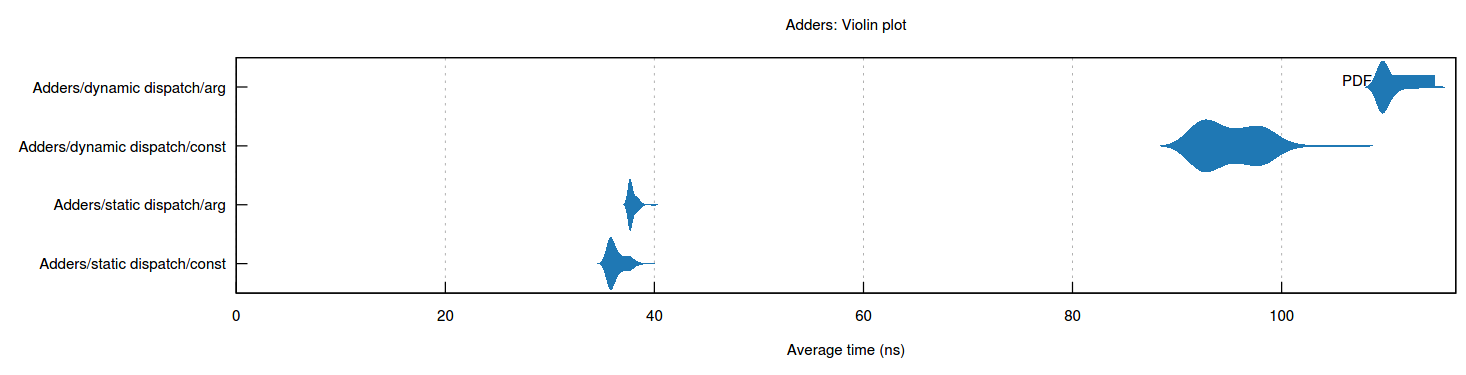
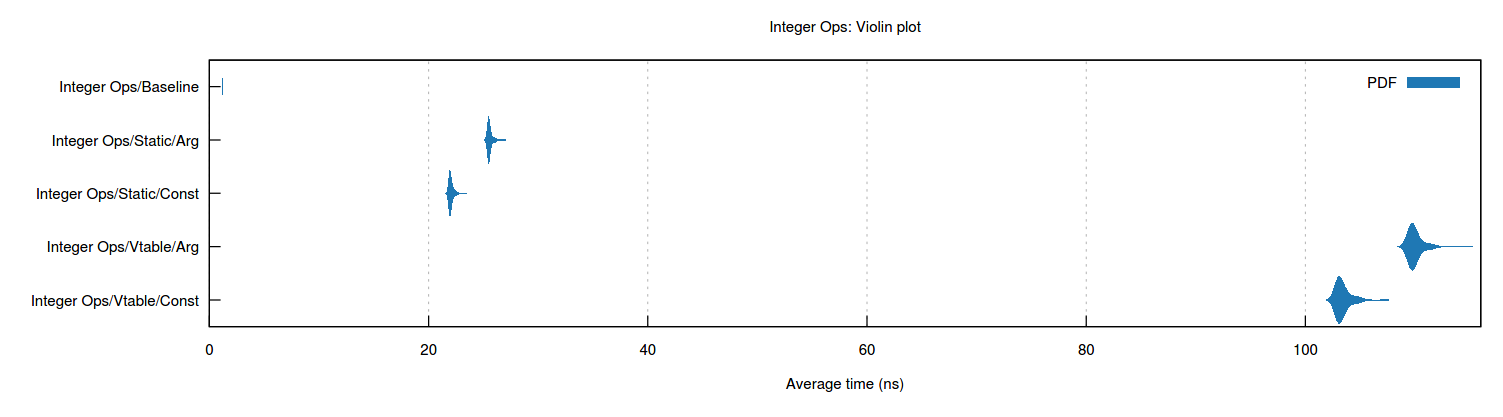
Add baseline benchmark and rename main benchmarks suite

diff --git a/benches/integer_ops.rs b/benches/integer_ops.rs
@@ -1,37 +1,43 @@
 use criterion::{black_box, criterion_group, criterion_main, Criterion};
-use zero_v::{compose, compose_nodes, Composite, NestLevel, NextNode, Node};
+use zero_v::{compose, compose_nodes, Composite, NextNode, Node};
 
+// The trait we want members of our collection to implement
 trait IntOp {
     fn execute(&self, input: usize) -> usize;
 }
 
+// Execute the trait's function on the object at a certain nesting level
 trait IntOpAtLevel {
     fn execute_at_level(&self, input: usize, level: usize) -> Option<usize>;
 }
 
-trait IterIntOps<NodeType: NextNode + IntOpAtLevel> {
-    fn iter_execute(&self, input: usize) -> CompositeIterator<'_, NodeType>;
-}
-
 impl IntOpAtLevel for () {
+    #[inline]
     fn execute_at_level(&self, _input: usize, _level: usize) -> Option<usize> {
         None
     }
 }
 
-impl<A: IntOp, B: NextNode + IntOpAtLevel + NestLevel> IntOpAtLevel for Node<A, B> {
+impl<A: IntOp, B: NextNode + IntOpAtLevel> IntOpAtLevel for Node<A, B> {
+    #[inline]
     fn execute_at_level(&self, input: usize, level: usize) -> Option<usize> {
-        if level == self.nest_level() {
-            Some(self.data.execute(input))
+        if level != 0 {
+            self.next.execute_at_level(input, level - 1)
         } else {
-            self.next.execute_at_level(input, level)
+            Some(self.data.execute(input))
         }
     }
 }
 
-impl<Nodes: NextNode + IntOpAtLevel + NestLevel> IterIntOps<Nodes> for Composite<Nodes> {
+// Iterate over the results of executing the trait's function on the input at
+// each nesting level starting from the outermost level.
+trait IterIntOps<NodeType: NextNode + IntOpAtLevel> {
+    fn iter_execute(&self, input: usize) -> CompositeIterator<'_, NodeType>;
+}
+
+impl<Nodes: NextNode + IntOpAtLevel> IterIntOps<Nodes> for Composite<Nodes> {
     fn iter_execute(&self, input: usize) -> CompositeIterator<'_, Nodes> {
-        CompositeIterator::new(&self.head, input, self.head.nest_level())
+        CompositeIterator::new(&self.head, input)
     }
 }
 
@@ -42,11 +48,11 @@ struct CompositeIterator<'a, Nodes: NextNode + IntOpAtLevel> {
 }
 
 impl<'a, Nodes: NextNode + IntOpAtLevel> CompositeIterator<'a, Nodes> {
-    fn new(parent: &'a Nodes, input: usize, max_level: usize) -> Self {
+    fn new(parent: &'a Nodes, input: usize) -> Self {
         Self {
             parent,
             input,
-            level: max_level,
+            level: 0,
         }
     }
 }
@@ -54,11 +60,10 @@ impl<'a, Nodes: NextNode + IntOpAtLevel> CompositeIterator<'a, Nodes> {
 impl<'a, Nodes: NextNode + IntOpAtLevel> Iterator for CompositeIterator<'a, Nodes> {
     type Item = usize;
 
+    #[inline]
     fn next(&mut self) -> Option<Self::Item> {
         let result = self.parent.execute_at_level(self.input, self.level);
-        if self.level > 0 {
-            self.level -= 1
-        };
+        self.level += 1;
         result
     }
 }
@@ -68,6 +73,7 @@ struct Adder {
 }
 
 impl Adder {
+    #[inline]
     fn new(value: usize) -> Self {
         Self { value }
     }
@@ -195,8 +201,25 @@ fn bench_trait_objects(input: usize, ops: &Vec<Box<dyn IntOp>>) -> usize {
     ops.iter().map(|op| op.execute(input)).sum()
 }
 
+fn bench_baseline(input: usize) -> usize {
+    (input + 0)
+        + (input << 1)
+        + (input + 2)
+        + (input * 3)
+        + (input + 4)
+        + (input * 5)
+        + (input + 6)
+        + (input * 7)
+        + (input + 8)
+        + (input * 9)
+        + (input + 10)
+        + (input >> 11)
+        + (input + 12)
+        + (input >> 13)
+}
+
 pub fn criterion_benchmark(c: &mut Criterion) {
-    let mut group = c.benchmark_group("Adders");
+    let mut group = c.benchmark_group("Integer Ops");
 
     let ops_dyn: Vec<Box<dyn IntOp>> = vec![
         Box::new(Adder::new(0)),
@@ -266,17 +289,24 @@ pub fn criterion_benchmark(c: &mut Criterion) {
         ConstRShifter::<13>::new()
     );
 
-    group.bench_function("static dispatch/arg", |b| {
+    group.bench_function("Static/Arg", |b| {
         b.iter(|| bench_composed(black_box(20), black_box(&ops)))
     });
-    group.bench_function("dynamic dispatch/arg", |b| {
+
+    group.bench_function("Vtable/Arg", |b| {
         b.iter(|| bench_trait_objects(black_box(20), black_box(&ops_dyn)))
     });
-    group.bench_function("static dispatch/const", |b| {
+
+    group.bench_function("Static/Const", |b| {
         b.iter(|| bench_composed(black_box(20), black_box(&ops_const)))
     });
-    group.bench_function("dynamic dispatch/const", |b| {
+
+    group.bench_function("Vtable/Const", |b| {
         b.iter(|| bench_trait_objects(black_box(20), black_box(&ops_dyn_const)))
+    });
+
+    group.bench_function("Baseline", |b| {
+        b.iter(|| bench_baseline(black_box(20)))
     });
 }
 

diff --git a/src/lib.rs b/src/lib.rs
@@ -164,14 +164,28 @@
 //!Zero_V comes out of this benchmark looking pretty good, but I do want to
 //!stress the following caveats.
 //!* This was using a trait where each iteration of the loop did a very small
-//!amount of work (a single multiplication, addition, rshift or lshift op).
-//!Basically this means that these benchmarks should make Zero_V look as good
-//!as it will ever look, since the vtable overhead will be as large as possible
-//!relative to the amount of work per iteration.
+//!  amount of work (a single multiplication, addition, rshift or lshift op).
+//!  Basically this means that these benchmarks should make Zero_V look as good
+//!  as it will ever look, since the vtable overhead will be as large as possible
+//!  relative to the amount of work per iteration.
 //!* Every use case is different, every machine is different and compilers can be
-//!fickle. If performance is important enough to pay the structural costs this
-//!technique  will impose on your code, it's probably important enough to verify
-//!you're getting the expected speedups by running your own benchmark suite.
+//!  fickle. If performance is important enough to pay the structural costs this
+//!  technique  will impose on your code, it's probably important enough to verify
+//!  you're getting the expected speedups by running your own benchmark suite,
+//!  and making sure those benchmarks are reflected in production. The
+//!  benchmarks above also make aggressive use of inline annotations
+//!  for trait implementations, and removing a single annotation can 
+//!  make the execution three times slower, so it's probably worth exploring
+//!  inlining for your own use case dependent on your performance needs.
+//!* The eagle-eyed amongst you might notice there's a fifth benchmark, baseline,
+//!  that completes in a little over a nanosecond. This is the version of the 
+//!  benchmarks that dispenses with traits and objects and just has a single function
+//!  which performs the work we're doing in the other benchmarks (execute
+//!  a set of integer ops on our input and sum the outputs). Depending
+//!  on your use case, it's usually a good idea to design your APIs in such
+//!  a way that if someone wants to hardcode a highly optimized solution like
+//!  that, they have the tools to do so. If you're good to your compiler, your
+//!  compiler will be good to you (occasional compiler bugs notwithstanding).
 
 mod composite;
 mod nest;

diff --git a/src/test.rs b/src/test.rs
@@ -1,6 +1,5 @@
 use crate::{compose, compose_nodes};
 use crate::composite::{Composite, NextNode, Node};
-use crate::nest::NestLevel;
 
 trait IntOp {
     fn execute(&self, input: usize) -> usize;
@@ -24,12 +23,12 @@ trait IntOpAtLevel {
     fn execute_at_level(&self, input: usize, level: usize) -> Option<usize>;
 }
 
-impl<A: IntOp, B: NextNode + IntOpAtLevel + NestLevel> IntOpAtLevel for Node<A, B> {
+impl<A: IntOp, B: NextNode + IntOpAtLevel> IntOpAtLevel for Node<A, B> {
     fn execute_at_level(&self, input: usize, level: usize) -> Option<usize> {
-        if level == self.nest_level() {
+        if level == 0 {
             Some(self.data.execute(input))
         } else {
-            self.next.execute_at_level(input, level)
+            self.next.execute_at_level(input, level - 1)
         }
     }
 }
@@ -47,11 +46,11 @@ struct CompositeIterator<'a, Nodes: NextNode + IntOpAtLevel> {
 }
 
 impl<'a, Nodes: NextNode + IntOpAtLevel> CompositeIterator<'a, Nodes> {
-    fn new(parent: &'a Nodes, input: usize, max_level: usize) -> Self {
+    fn new(parent: &'a Nodes, input: usize) -> Self {
         Self {
             parent,
             input,
-            level: max_level,
+            level: 0,
         }
     }
 }
@@ -61,20 +60,18 @@ impl<'a, Nodes: NextNode + IntOpAtLevel> Iterator for CompositeIterator<'a, Node
 
     fn next(&mut self) -> Option<Self::Item> {
         let result = self.parent.execute_at_level(self.input, self.level);
-        if self.level > 0 {
-            self.level -= 1
-        };
+        self.level += 1;
         result
     }
 }
 
-trait IterExecute<Nodes: NextNode + IntOpAtLevel + NestLevel> {
+trait IterExecute<Nodes: NextNode + IntOpAtLevel> {
    fn iter_execute(&self, input: usize) -> CompositeIterator<'_, Nodes>;
 }
 
-impl<Nodes: NextNode + IntOpAtLevel + NestLevel>IterExecute<Nodes> for Composite<Nodes> {
+impl<Nodes: NextNode + IntOpAtLevel> IterExecute<Nodes> for Composite<Nodes> {
    fn iter_execute(&self, input: usize) -> CompositeIterator<'_, Nodes> {
-       CompositeIterator::new(&self.head, input, self.head.nest_level())
+       CompositeIterator::new(&self.head, input)
    }
 }
 

diff --git a/README.md b/README.md
@@ -165,11 +165,25 @@ compiled using rustc 1.52.1, so your mileage may vary)
 Zero_V comes out of this benchmark looking pretty good, but I do want to
 stress the following caveats.
 * This was using a trait where each iteration of the loop did a very small
-amount of work (a single multiplication, addition, rshift or lshift op).
-Basically this means that these benchmarks should make Zero_V look as good
-as it will ever look, since the vtable overhead will be as large as possible
-relative to the amount of work per iteration.
+ amount of work (a single multiplication, addition, rshift or lshift op).
+ Basically this means that these benchmarks should make Zero_V look as good
+ as it will ever look, since the vtable overhead will be as large as possible
+ relative to the amount of work per iteration.
 * Every use case is different, every machine is different and compilers can be
-fickle. If performance is important enough to pay the structural costs this
-technique  will impose on your code, it's probably important enough to verify
-you're getting the expected speedups by running your own benchmark suite.
+ fickle. If performance is important enough to pay the structural costs this
+ technique  will impose on your code, it's probably important enough to verify
+ you're getting the expected speedups by running your own benchmark suite,
+ and making sure those benchmarks are reflected in production. The
+ benchmarks above also make aggressive use of inline annotations
+ for trait implementations, and removing a single annotation can
+ make the execution three times slower, so it's probably worth exploring
+ inlining for your own use case dependent on your performance needs.
+* The eagle-eyed amongst you might notice there's a fifth benchmark, baseline,
+ that completes in a little over a nanosecond. This is the version of the
+ benchmarks that dispenses with traits and objects and just has a single function
+ which performs the work we're doing in the other benchmarks (execute
+ a set of integer ops on our input and sum the outputs). Depending
+ on your use case, it's usually a good idea to design your APIs in such
+ a way that if someone wants to hardcode a highly optimized solution like
+ that, they have the tools to do so. If you're good to your compiler, your
+ compiler will be good to you (occasional compiler bugs notwithstanding).
